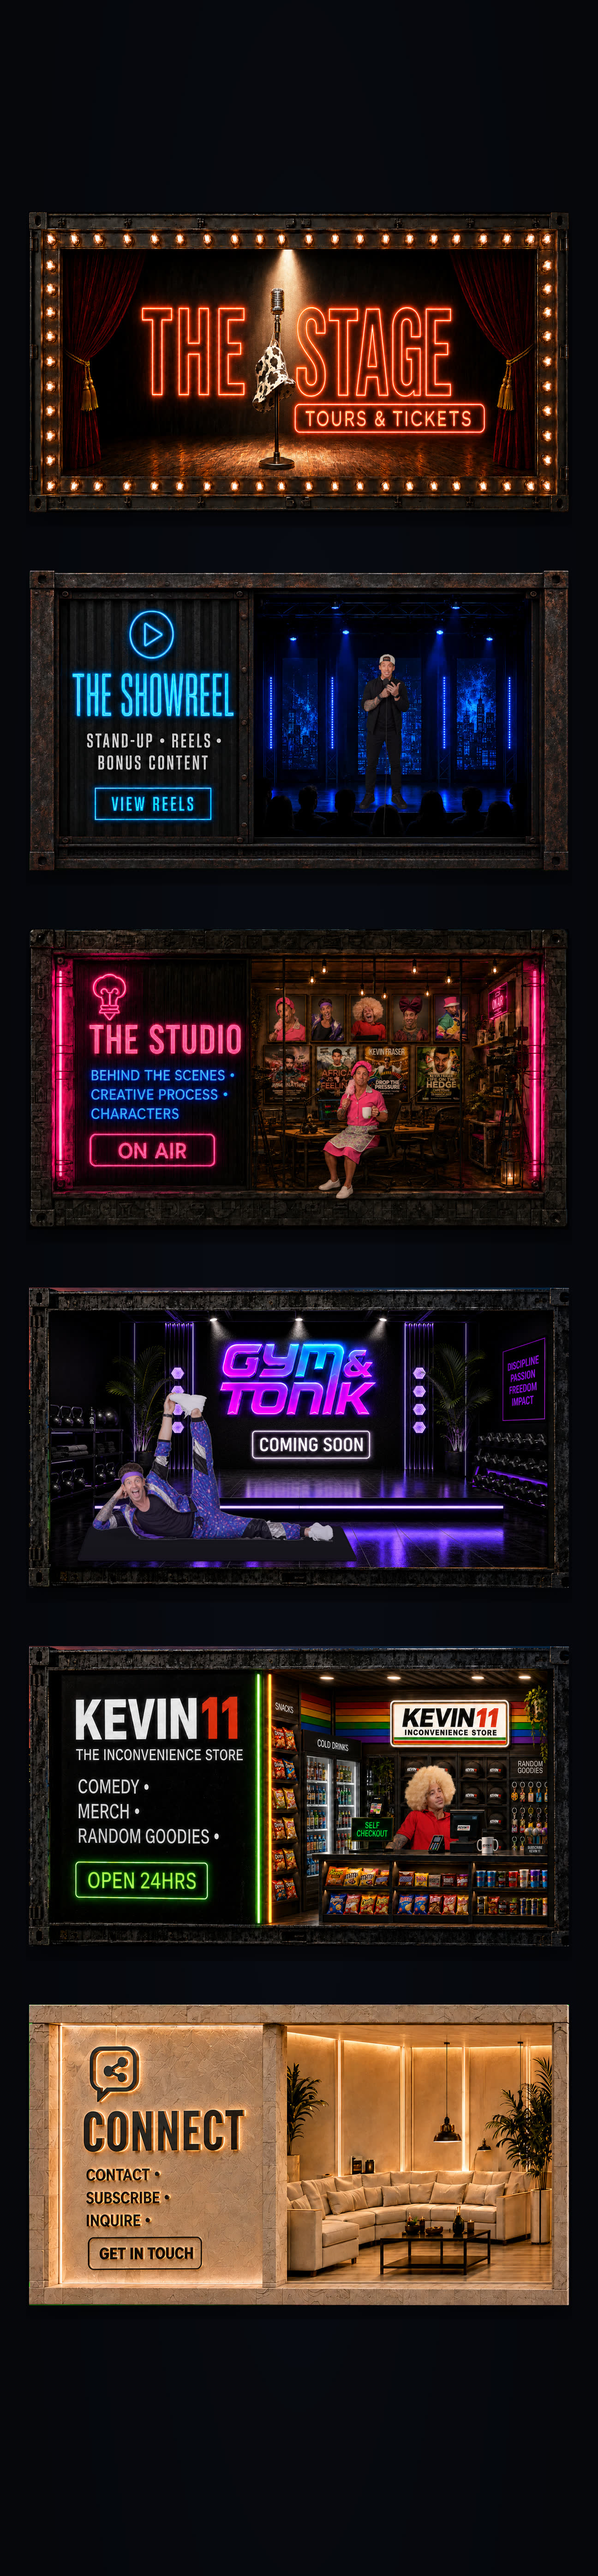
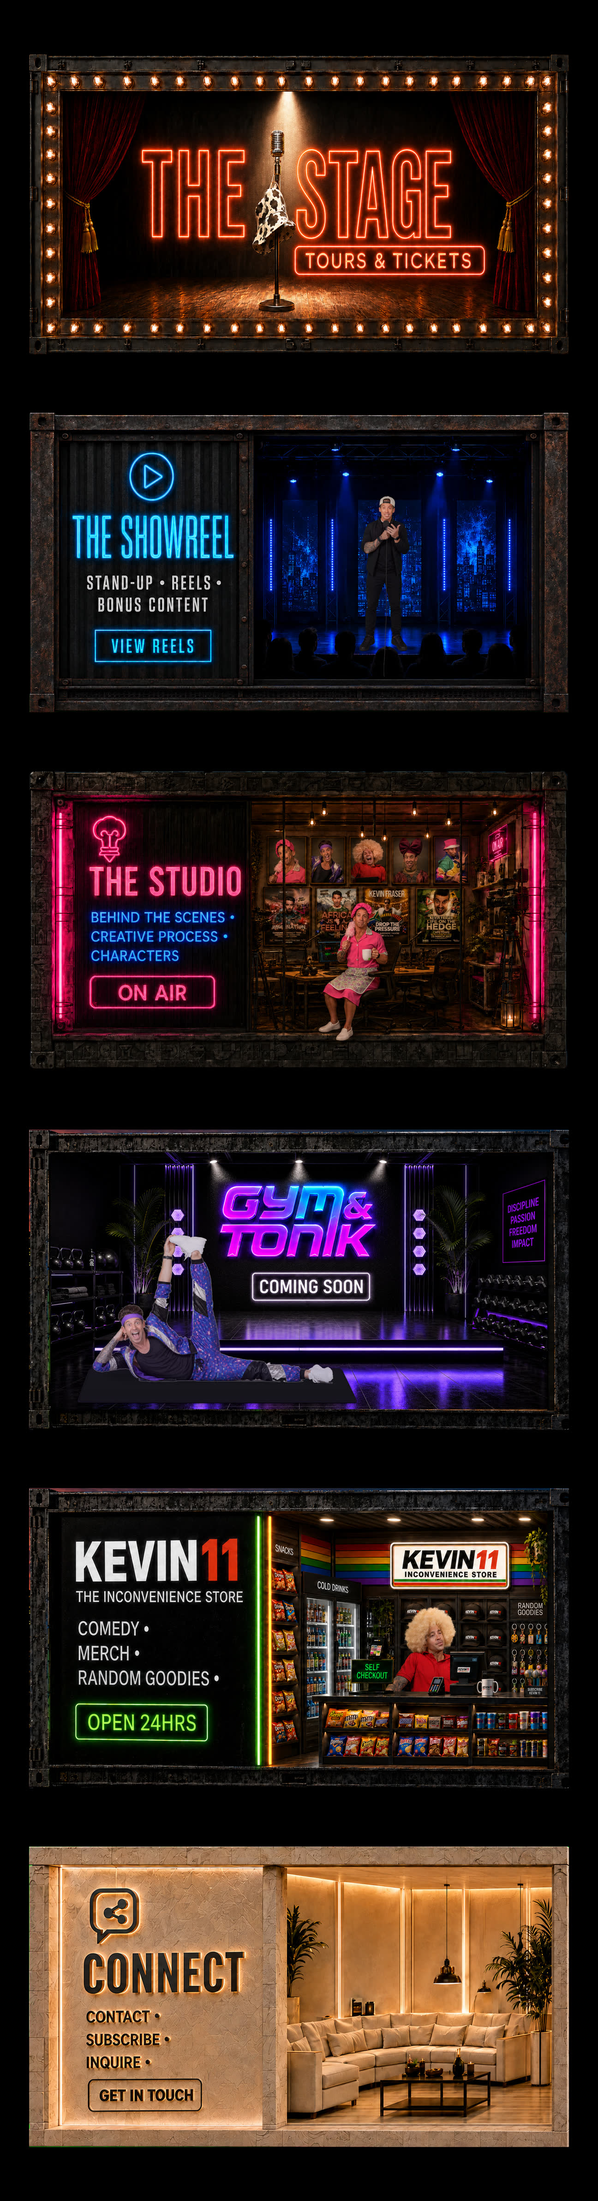
Landing: refresh mobile hero art and remapped panel hotspots
Regenerate compressed webp/jpg from the updated kevin-hero-mobile.png
and shift Stage→Connect hit zones to the new vertical band positions.

diff --git a/src/components/ImageMapLanding.tsx b/src/components/ImageMapLanding.tsx
@@ -182,63 +182,63 @@ const DESKTOP_HOTSPOTS: Hotspot[] = [
 /**
  * Mobile: vertically stacked panels in kevin-hero-mobile.
  * Percentages are relative to the image itself (not the viewport).
- * Panel bands (approx): Stage 9–19%, Showreel 21–33%, Studio 35–47%,
- * Gym 49–61%, Kevin11 63–75%, Connect 77–89%.
+ * Panel bands (approx): Stage 4–17%, Showreel 18–33%, Studio 34–49%,
+ * Gym 50–66%, Kevin11 67–82%, Connect 83–97%.
  */
 const MOBILE_HOTSPOTS: Hotspot[] = [
   {
     id: 'stage',
     href: '/worlds/stage',
     label: 'The Stage',
-    top: '9%',
+    top: '4.5%',
     left: '4%',
     width: '92%',
-    height: '10%',
+    height: '12%',
   },
   {
     id: 'showreel',
     href: '/worlds/showreel',
     label: 'The Showreel',
-    top: '21%',
+    top: '18%',
     left: '4%',
     width: '92%',
-    height: '12%',
+    height: '15%',
   },
   {
     id: 'studio',
     href: '/worlds/studio',
     label: 'The Studio',
-    top: '35%',
+    top: '34.5%',
     left: '4%',
     width: '92%',
-    height: '12%',
+    height: '14.5%',
   },
   {
     id: 'gym',
     href: '',
     label: 'Gym & Tonik',
-    top: '49%',
+    top: '50.5%',
     left: '4%',
     width: '92%',
-    height: '12%',
+    height: '14.5%',
   },
   {
     id: 'kevin11',
     href: '/worlds/kevin11',
     label: 'Kevin11',
-    top: '63%',
+    top: '67%',
     left: '4%',
     width: '92%',
-    height: '12%',
+    height: '14.5%',
   },
   {
     id: 'connect',
     href: '/worlds/connect',
     label: 'Connect',
-    top: '77%',
+    top: '83%',
     left: '4%',
     width: '92%',
-    height: '12%',
+    height: '14%',
   },
 ]
 
